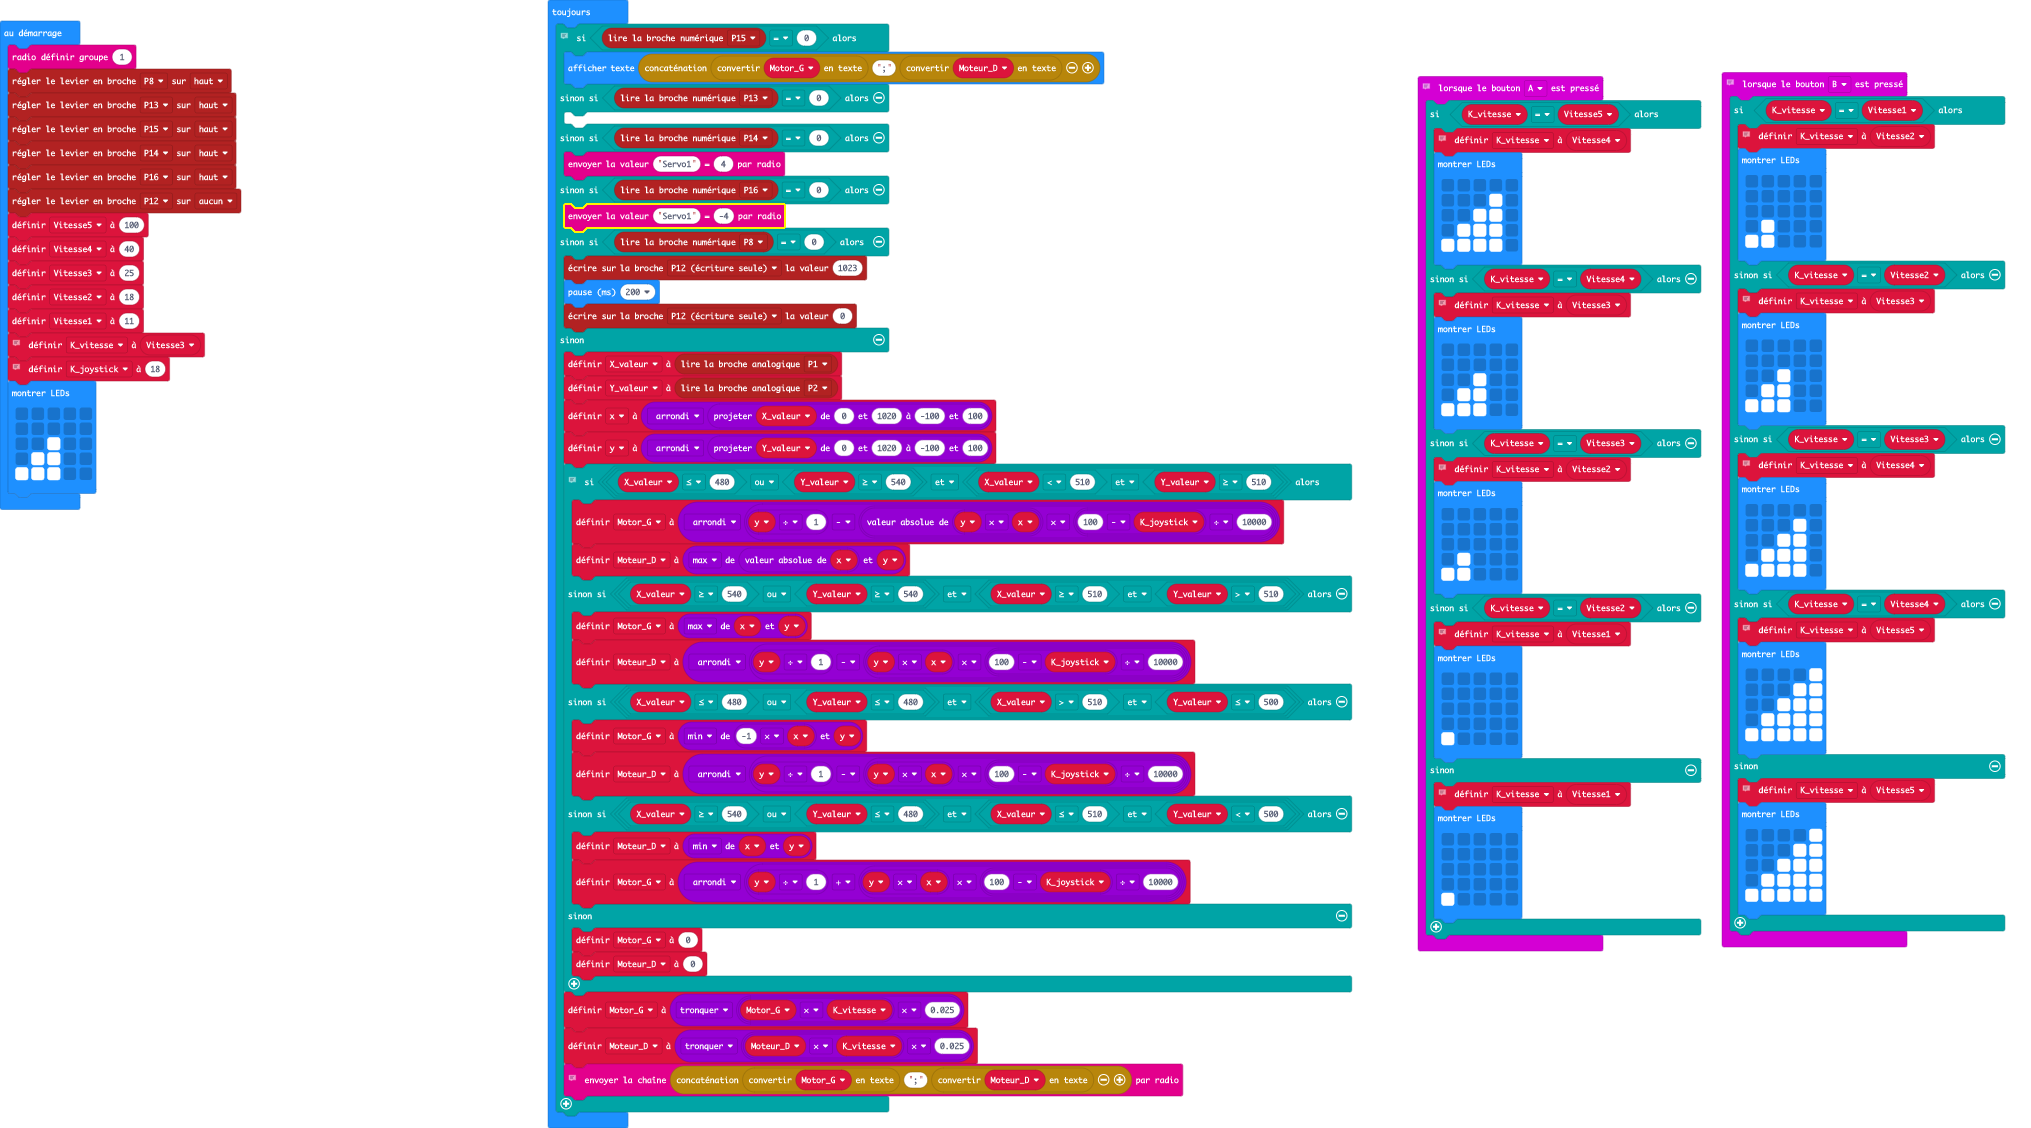
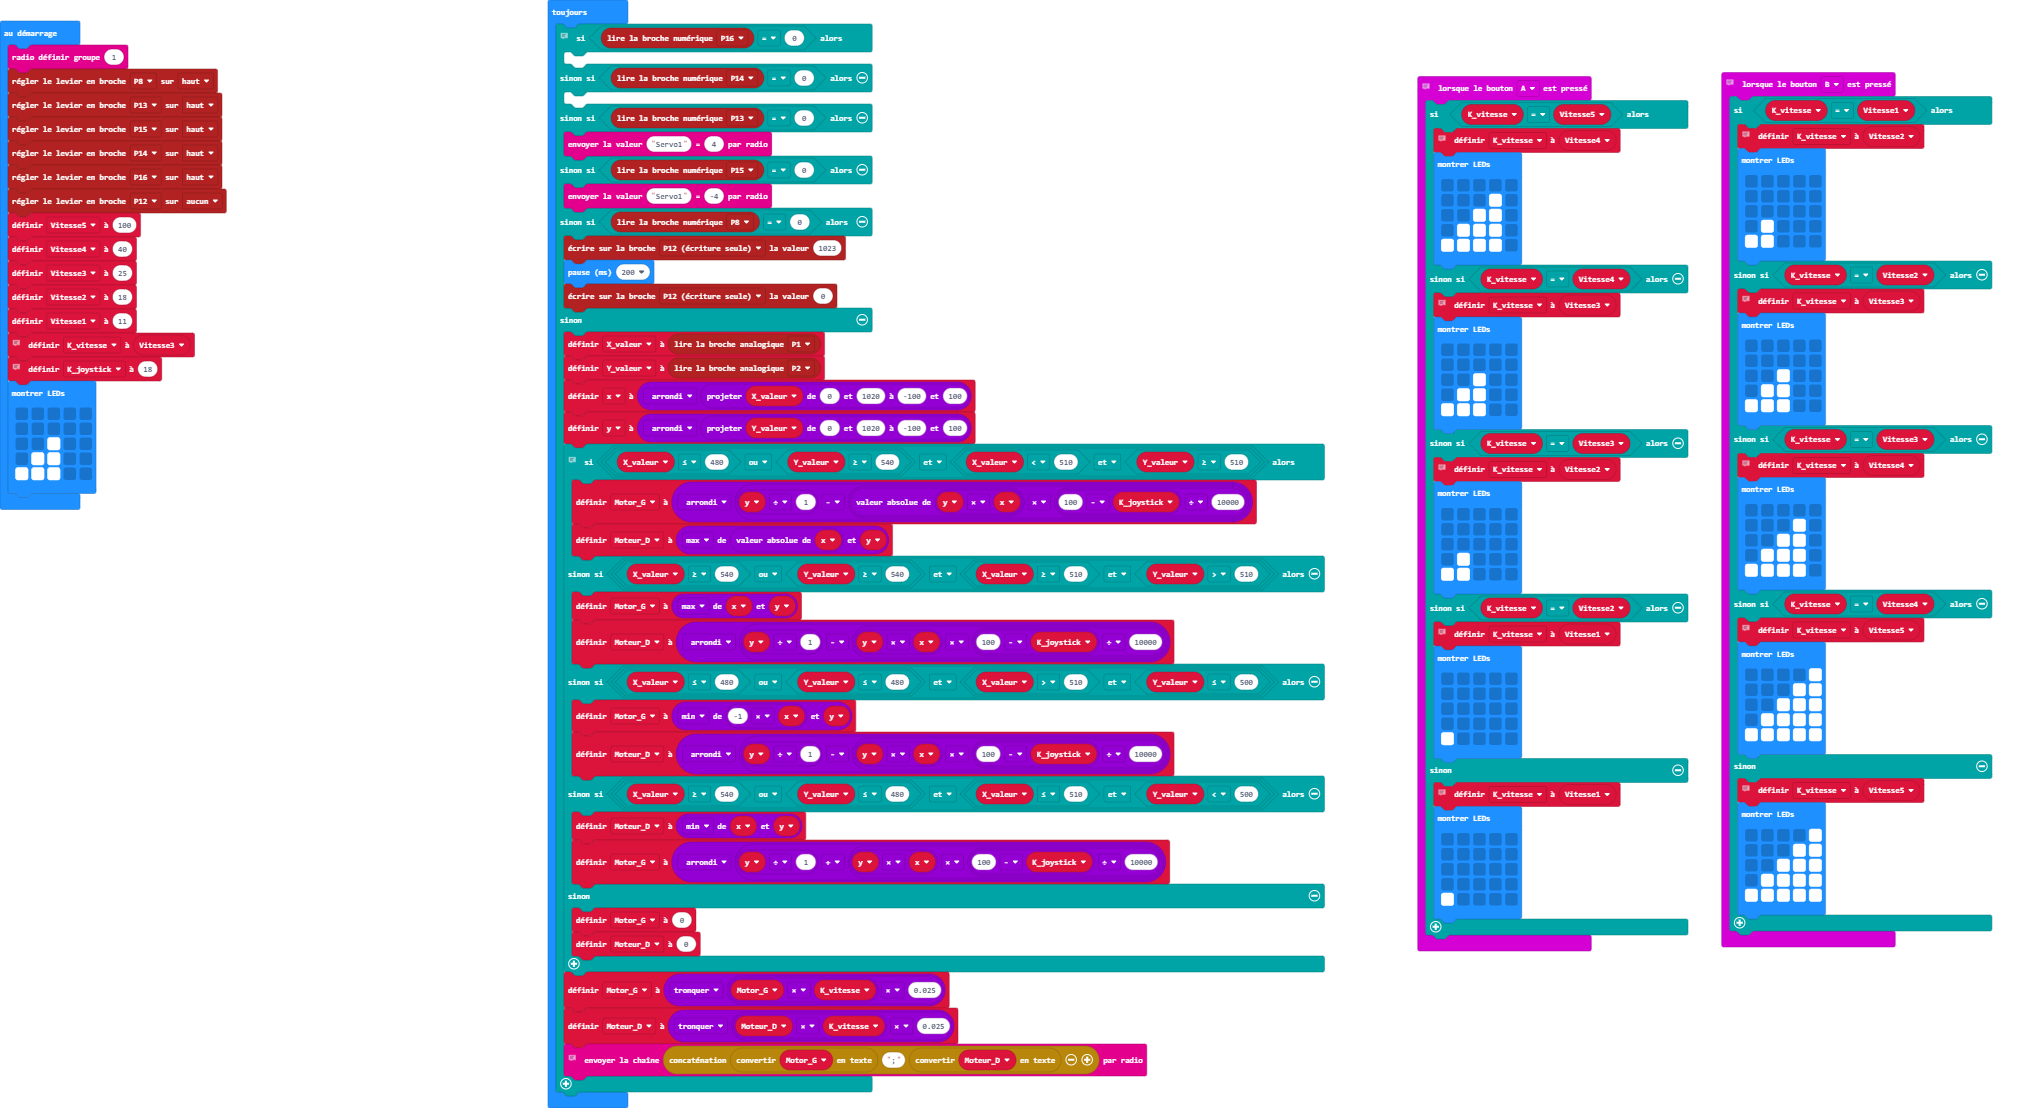
Mise à jour main.blocks, main.ts

Changed region(s): [[0.2498, 0.0, 0.999, 1.0], [0.0, 0.0, 0.1249, 0.4603]]

diff --git a/main.ts b/main.ts
@@ -106,12 +106,12 @@ input.onButtonPressed(Button.B, function () {
             `)
     }
 })
+let Moteur_D = 0
+let Motor_G = 0
 let y = 0
 let x = 0
 let Y_valeur = 0
 let X_valeur = 0
-let Moteur_D = 0
-let Motor_G = 0
 let K_vitesse = 0
 let Vitesse1 = 0
 let Vitesse2 = 0
@@ -147,13 +147,13 @@ basic.showLeds(`
     `)
 basic.forever(function () {
     // Dans la première partie du 'Si' on vient lire les 5 boutons poussoirs de la manette
-    if (pins.digitalReadPin(DigitalPin.P15) == 0) {
-        basic.showString("" + convertToText(Motor_G) + ";" + convertToText(Moteur_D))
-    } else if (pins.digitalReadPin(DigitalPin.P13) == 0) {
+    if (pins.digitalReadPin(DigitalPin.P16) == 0) {
     	
     } else if (pins.digitalReadPin(DigitalPin.P14) == 0) {
+    	
+    } else if (pins.digitalReadPin(DigitalPin.P13) == 0) {
         radio.sendValue("Servo1", 4)
-    } else if (pins.digitalReadPin(DigitalPin.P16) == 0) {
+    } else if (pins.digitalReadPin(DigitalPin.P15) == 0) {
         radio.sendValue("Servo1", -4)
     } else if (pins.digitalReadPin(DigitalPin.P8) == 0) {
         pins.analogWritePin(AnalogPin.P12, 1023)
